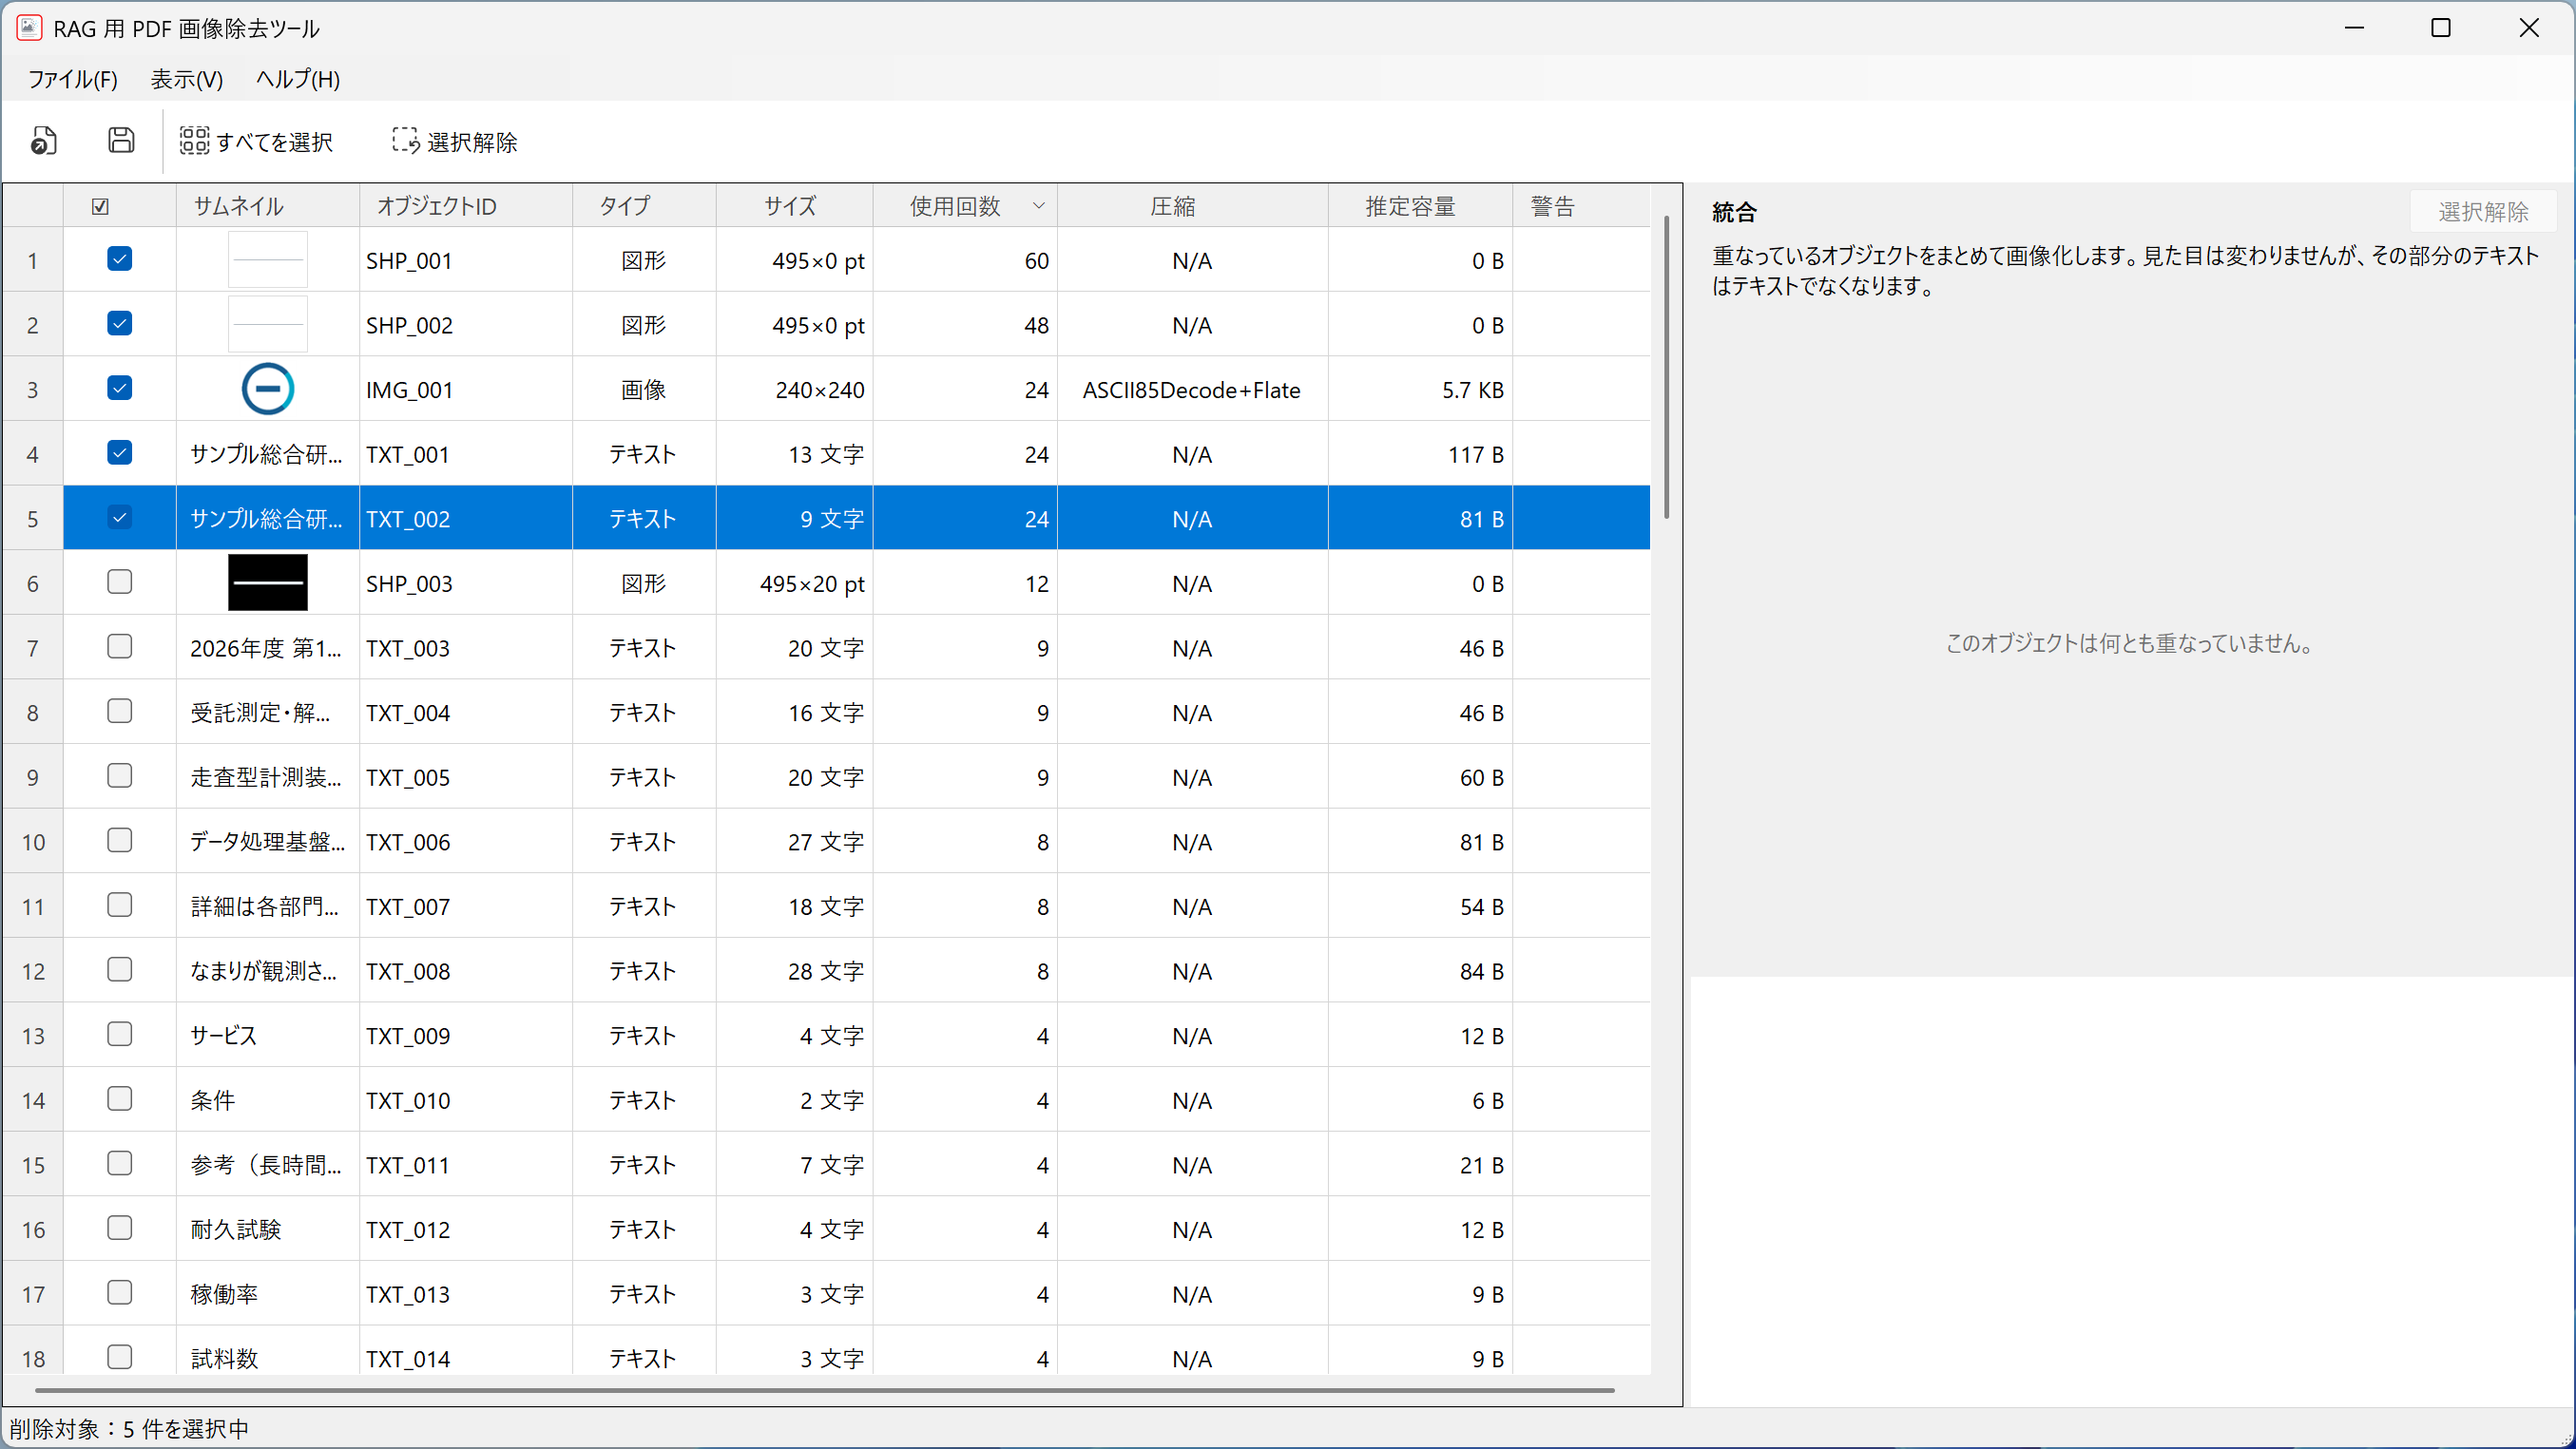
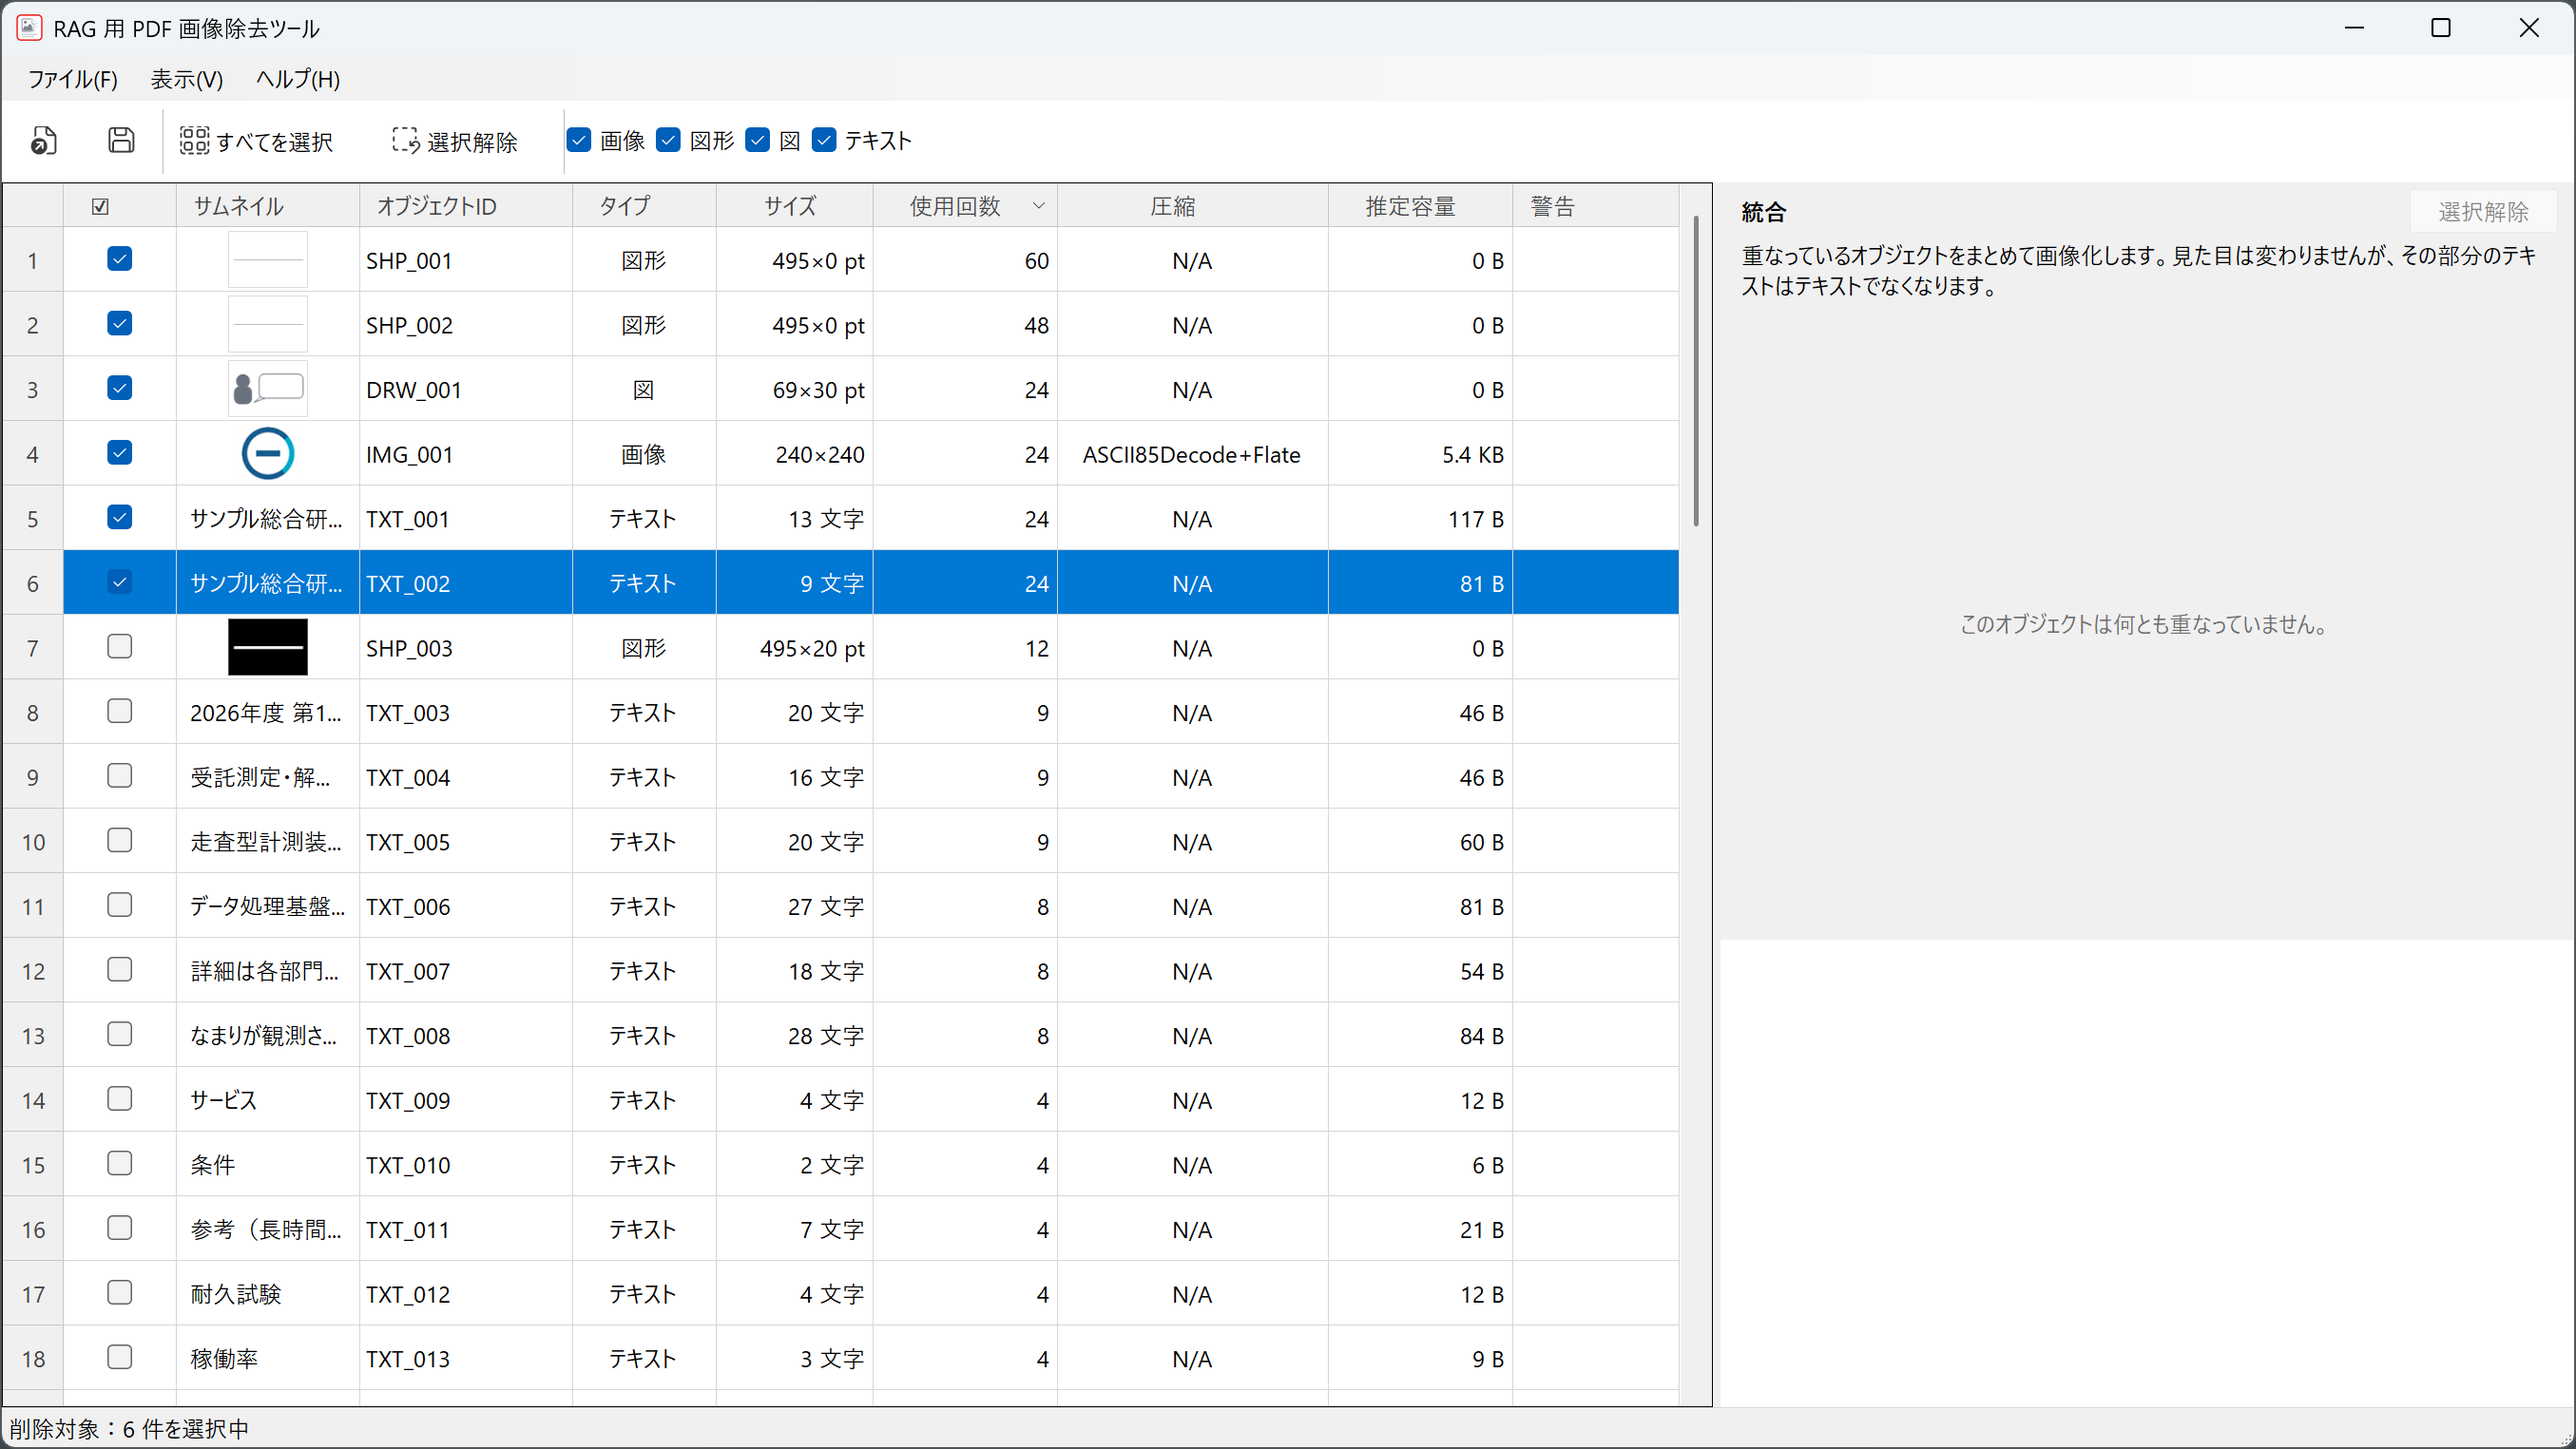
Show this release's window in the manual screenshots
The six manual screenshots were taken before the toolbar carried the kind
filters and before drawings were a kind at all, so they showed a window
that no longer exists. Retaken against 1.2.0, same three demo documents,
same 2710x1525 as every other image in the set.

The demo documents had to change first. Nothing in them was drawn inside
a form, so a screenshot could not have shown the new kind however it was
framed — the manual would have listed four kinds beside a picture of
three. They now carry a reader-note figure, a person and a speech bubble
built from paths and placed on every page, which is the shape of the
artwork that prompted the feature. It groups across the three files into
one row used twenty-four times, the same way the logo does.

The generator also gained Windows font paths. It looked for its Japanese
face only under a macOS home directory, so it could not run at all on the
side this repository is now developed on.

diff --git a/scripts/generate-demo-pdfs.py b/scripts/generate-demo-pdfs.py
@@ -1,7 +1,7 @@
 #!/usr/bin/env python3
-"""Generate demo PDFs for screenshots. Run on macOS from the repository root.
+"""Generate demo PDFs for screenshots. Run from the repository root.
 
-    scratchpad-venv/bin/python scripts/generate-demo-pdfs.py demo-pdfs/
+    <venv>/Scripts/python.exe scripts/generate-demo-pdfs.py demo-pdfs/
 
 Needs reportlab (not a project dependency; install it into a throwaway venv).
 
@@ -52,6 +52,13 @@ from reportlab.pdfgen import canvas
 # Morisawa OTFs; these candidates all carry TrueType outlines. Ordered by
 # preference: MS PGothic matches what the screenshots will show on Windows.
 FONT_CANDIDATES = [
+    # Windows, where this repo is developed now. msgothic.ttc holds MS Gothic,
+    # MS PGothic and MS UI Gothic; the proportional face reads best, and the
+    # others are here so a missing index cannot stop the run.
+    ("C:/Windows/Fonts/msgothic.ttc", 1),                   # MS PGothic
+    ("C:/Windows/Fonts/msgothic.ttc", 0),                   # MS Gothic
+    ("C:/Windows/Fonts/meiryo.ttc", 0),                     # Meiryo
+    # macOS, from when the demo PDFs were generated there.
     (str(Path.home() / "Library/Fonts/msgothic.ttc"), 2),   # MS PGothic
     (str(Path.home() / "Library/Fonts/msgothic.ttc"), 0),   # MS Gothic
     ("/System/Library/Fonts/Supplemental/Arial Unicode.ttf", 0),
@@ -67,6 +74,11 @@ MARGIN = 50
 BRAND = Color(0.09, 0.36, 0.56)     # header rule / logo
 RULE = Color(0.72, 0.75, 0.78)      # thin separators
 BODY = Color(0.18, 0.19, 0.21)
+FIGURE = Color(0.42, 0.45, 0.50)    # the reader-note figure
+
+# The reader-note figure is defined once per document as a Form XObject and
+# drawn on every page. Its name only has to be unique within the file.
+NOTE_FORM = "NoteFigure"
 
 
 def make_logo() -> Image.Image:
@@ -132,6 +144,33 @@ class DemoDocument:
     def text(self, ja: str, en: str) -> str:
         return ja if self.japanese else en
 
+    def define_note_figure(self) -> None:
+        """Define the reader-note figure as a Form XObject, once per document.
+
+        A figure placed as a unit — a person and a speech bubble — which is
+        what the app lists as a *drawing*. It is all vector paths and holds no
+        image, and that is the point: artwork like this is invisible to
+        anything that reads only a page's own content stream, which is why the
+        app grew a fourth kind of removable object for it.
+
+        Defined once and drawn on every page, so it groups into one row with a
+        usage count in the twenties across the three files, the same way the
+        logo does.
+        """
+        c = self.canvas
+        c.beginForm(NOTE_FORM, 0, 0, 74, 40)
+        c.setFillColor(FIGURE)
+        c.setStrokeColor(FIGURE)
+        # A head and shoulders: two filled paths.
+        c.circle(12, 29, 7, stroke=0, fill=1)
+        c.roundRect(3, 6, 18, 18, 6, stroke=0, fill=1)
+        # The speech bubble beside them: a stroked path with a tail, so the
+        # drawing mixes fills and strokes the way real artwork does.
+        c.setLineWidth(1.1)
+        c.roundRect(28, 12, 44, 24, 5, stroke=1, fill=0)
+        c.lines([(30, 14, 23, 8), (23, 8, 34, 12)])
+        c.endForm()
+
     def draw_furniture(self) -> None:
         """Header logo + title and footer text, drawn identically on each page.
 
@@ -163,6 +202,13 @@ class DemoDocument:
         c.setFillColor(Color(0.45, 0.47, 0.5))
         c.drawString(MARGIN, 48, self.text(f"{ORG_JA}｜社外秘", f"{ORG_EN} | Confidential"))
         c.drawRightString(PAGE_W - MARGIN, 48, str(self.page_number))
+
+        # The reader-note figure, low on the page where the document that
+        # prompted this feature put its own.
+        c.saveState()
+        c.translate(MARGIN, 72)
+        c.doForm(NOTE_FORM)
+        c.restoreState()
 
     def paragraph(self, y: float, lines: list[str], leading: float = 15) -> float:
         """Draw pre-wrapped body lines, returning the y below the block."""
@@ -355,6 +401,8 @@ def build(path: Path, title: str, kind: str, logo: ImageReader,
     produces reflects a real document rather than the generator's laziness.
     """
     doc = DemoDocument(path, title, logo, japanese)
+    # Defined before any page draws it.
+    doc.define_note_figure()
 
     # Page 1: title + opening copy + the first chart.
     doc.new_page()
